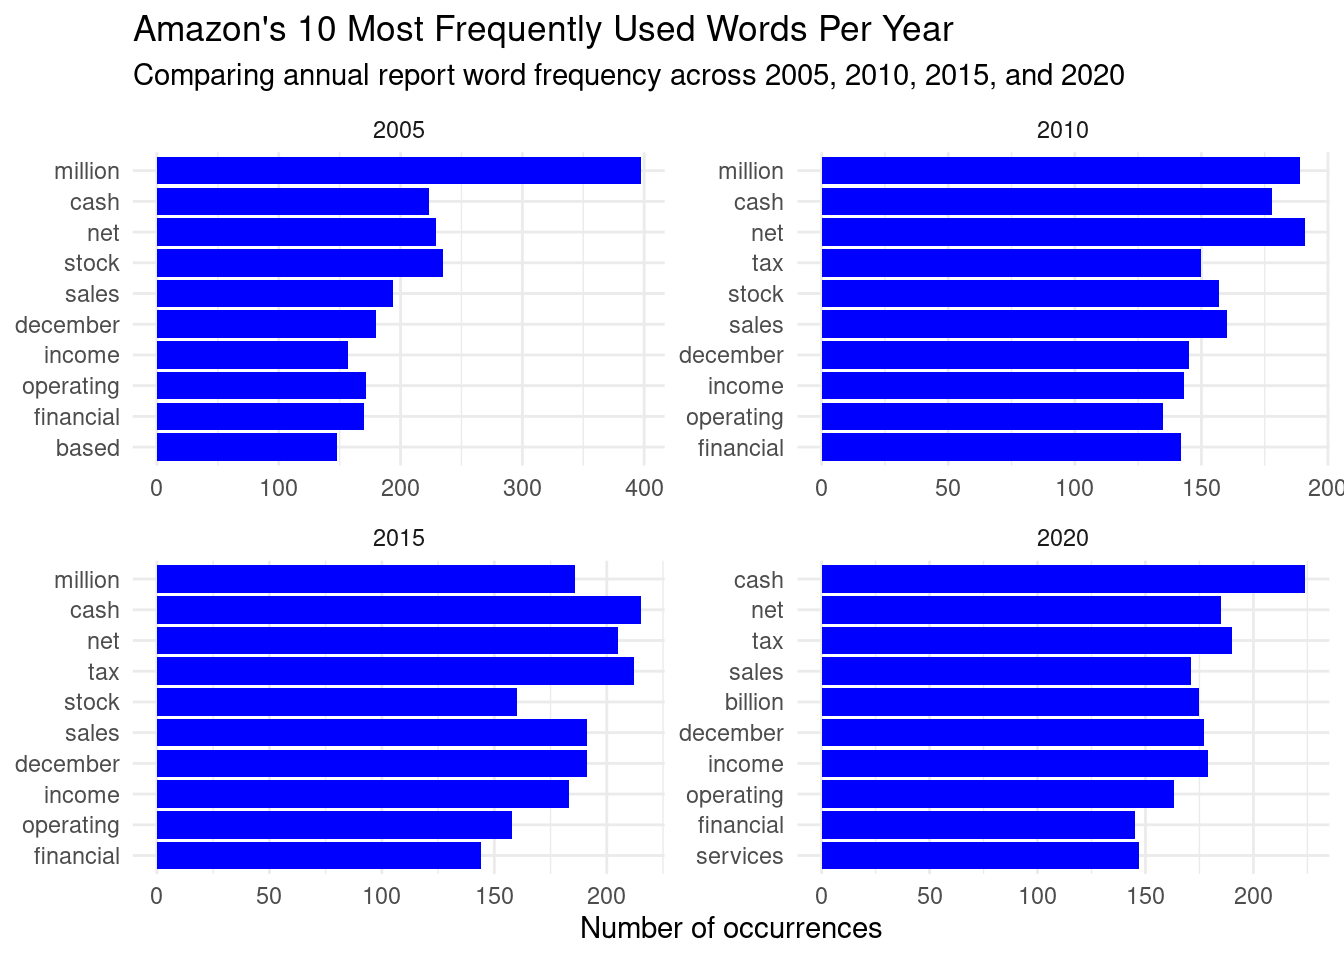
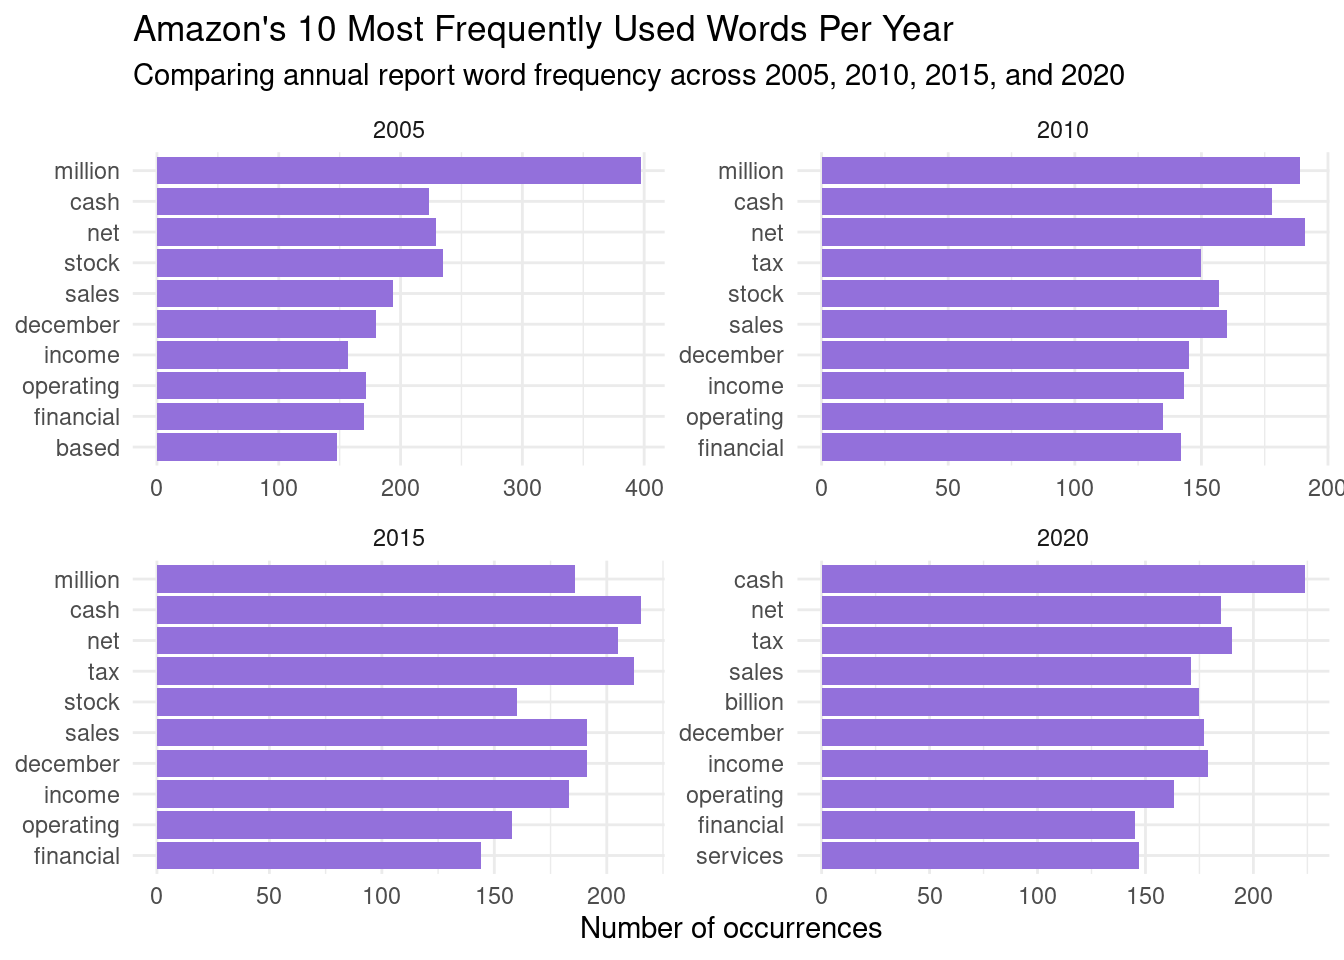
color change

diff --git a/docs/tidyanalysis1.html b/docs/tidyanalysis1.html
@@ -6,7 +6,7 @@
 
 <meta name="viewport" content="width=device-width, initial-scale=1.0, user-scalable=yes">
 
-<meta name="author" content="Lee">
+<meta name="author" content="Celina">
 <meta name="dcterms.date" content="2026-09-30">
 <meta name="description" content="Analysis of Amazon Annual reports data from TidyTuesday.">
 
@@ -363,7 +363,7 @@ pre > code.sourceCode > span > a:first-child::before { text-decoration: underlin
     <div>
     <div class="quarto-title-meta-heading">Author</div>
     <div class="quarto-title-meta-contents">
-             <p>Lee </p>
+             <p>Celina </p>
           </div>
   </div>
     
@@ -417,7 +417,7 @@ pre > code.sourceCode > span > a:first-child::before { text-decoration: underlin
 <span id="cb3-6"><a href="#cb3-6" aria-hidden="true" tabindex="-1"></a>        <span class="at">y =</span> <span class="fu">reorder</span>(word, n)</span>
 <span id="cb3-7"><a href="#cb3-7" aria-hidden="true" tabindex="-1"></a>    )</span>
 <span id="cb3-8"><a href="#cb3-8" aria-hidden="true" tabindex="-1"></a>) <span class="sc">+</span></span>
-<span id="cb3-9"><a href="#cb3-9" aria-hidden="true" tabindex="-1"></a><span class="fu">geom_col</span>(<span class="at">fill =</span> <span class="st">"blue"</span>) <span class="sc">+</span></span>
+<span id="cb3-9"><a href="#cb3-9" aria-hidden="true" tabindex="-1"></a><span class="fu">geom_col</span>(<span class="at">fill =</span> <span class="st">"mediumpurple"</span>) <span class="sc">+</span></span>
 <span id="cb3-10"><a href="#cb3-10" aria-hidden="true" tabindex="-1"></a><span class="fu">facet_wrap</span>(<span class="sc">~</span> year, <span class="at">scales =</span> <span class="st">"free"</span>) <span class="sc">+</span></span>
 <span id="cb3-11"><a href="#cb3-11" aria-hidden="true" tabindex="-1"></a><span class="fu">labs</span>(</span>
 <span id="cb3-12"><a href="#cb3-12" aria-hidden="true" tabindex="-1"></a>    <span class="at">title =</span> <span class="st">"Amazon's 10 Most Frequently Used Words Per Year"</span>,</span>
